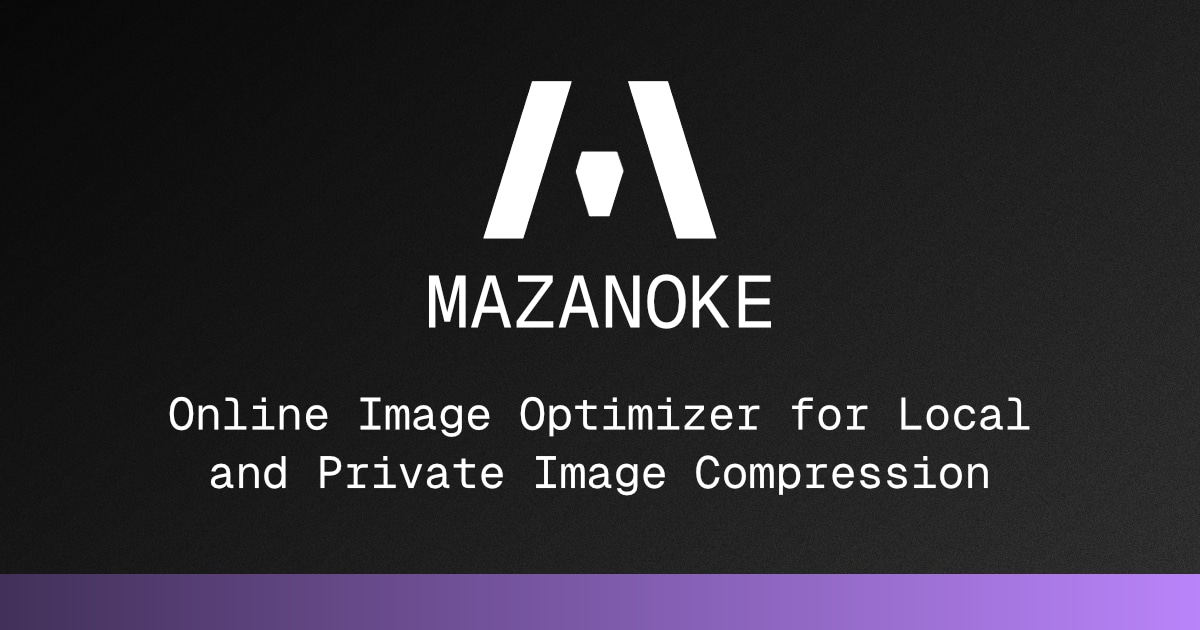
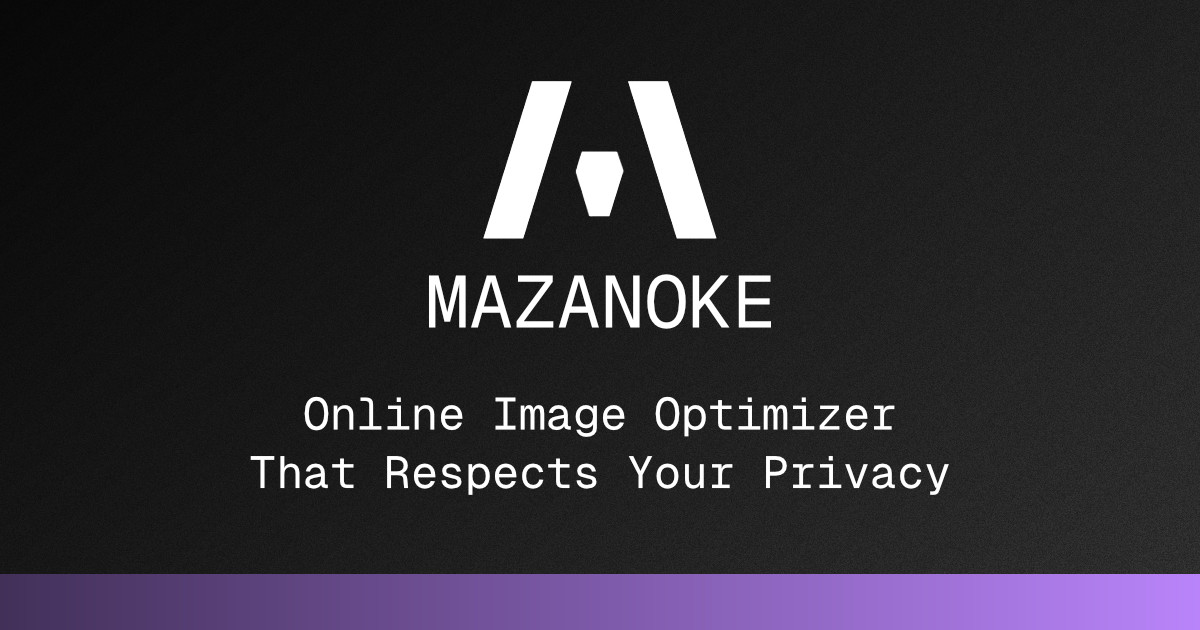
feat: hide 'install' pwa button once installed. chore: adjust og-image text content

Changed region(s): [[0.1233, 0.6333, 0.8633, 0.6937], [0.1542, 0.7238, 0.8325, 0.7841]]

diff --git a/assets/js/script.js b/assets/js/script.js
@@ -904,8 +904,8 @@ function appendFileNameId(fileName = "image") {
 function renameBrowserDefaultFileName(fileName) {
   // Naive approach to check if an image was pasted from clipboard and received a default name by the browser,
   // e.g., `image.png`. This method is potentially browser and language-dependent, if naming conventions vary.
-  // `HEIF image.heic` concerns Apple devices, e.g. when drag-n-dropping a subject cut-out.
-  const defaultNames = [/^image\.\w+$/i, /^HEIF image\.heic$/i];
+  // `HEIF Image.heic` concerns iOS devices, e.g. when drag-and-dropping a subject cut-out.
+  const defaultNames = [/^image\.\w+$/i, /^heif image\.heic$/i];
 
   if (defaultNames.some(regex => regex.test(fileName))) {
     return { renamedFileName: appendFileNameId(fileName), isBrowserDefaultFileName: true };

diff --git a/index.html b/index.html
@@ -467,6 +467,10 @@
         deferredPrompt = null;
       }
     });
+
+    window.addEventListener('appinstalled', (event) => {
+      document.getElementById('installPWA').classList.add('hidden');
+    });
   </script>
 </body>
 
